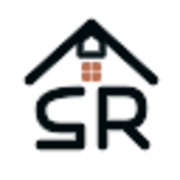
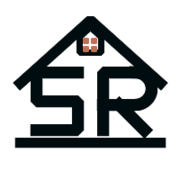
feat(brand): пересобрать логотип ближе к референсу — массивные SR в крыше + sienna-окошко
Геометрия повторяет присланный логотип точнее:
  - широкая крыша-домик с маленьким мансардным окошком (квадратиком 2x2);
  - под крышей — массивные стилизованные S и R, две толстые stroke-формы
    (S-зигзаг, R с круглой петлёй и наклонной ножкой), сходящиеся вниз
    к общей горизонтальной 'полке' (нижний край дома);
  - окошко в крыше — единственное цветное пятно (sienna #bc7155).

Обновлены и app/icon.svg (favicon), и apple-icon.png (180x180, отрендерён
из обновлённого SVG). Размер apple-icon.png уменьшился с 57 KB до 20 KB.

Changed region(s): [[0.0556, 0.0833, 0.9444, 0.8611]]

diff --git a/frontend/src/components/Logo.tsx b/frontend/src/components/Logo.tsx
@@ -93,65 +93,57 @@ function LogoIcon({
   size: number;
   className?: string;
 }) {
+  // Геометрия повторяет референс: широкая крыша-домик с маленьким мансардным
+  // окошком, под ней массивные стилизованные S и R — толстые «почти fill»
+  // обводки, опирающиеся на общую горизонтальную полку (нижний край дома).
   return (
     <svg
-      viewBox="0 0 64 64"
+      viewBox="0 0 200 200"
       width={size}
       height={size}
       role="img"
       aria-label="Smart Rent"
       className={className}
     >
-      {/* Крыша-домик с маленьким окошком сверху */}
-      <path
-        d="M10 28 L32 8 L54 28"
+      <g
         fill="none"
         stroke={stroke}
-        strokeWidth="3.5"
-        strokeLinecap="round"
-        strokeLinejoin="round"
-      />
-      <path
-        d="M28 14 L32 11 L36 14 L36 19 L28 19 Z"
-        fill="none"
-        stroke={stroke}
-        strokeWidth="2.2"
-        strokeLinejoin="round"
-      />
-      {/* Окошко 2x2 в центре крыши — маленькие квадраты, акцентная заливка sienna */}
-      <g transform="translate(29 22)">
-        <rect x="0" y="0" width="2.6" height="2.6" rx="0.4" fill={accent} />
-        <rect x="3.4" y="0" width="2.6" height="2.6" rx="0.4" fill={accent} />
-        <rect x="0" y="3.4" width="2.6" height="2.6" rx="0.4" fill={accent} />
-        <rect x="3.4" y="3.4" width="2.6" height="2.6" rx="0.4" fill={accent} />
+        strokeLinecap="square"
+        strokeLinejoin="miter"
+        strokeMiterlimit="2"
+      >
+        {/* Скаты крыши с лёгким карнизом — две сходящиеся линии */}
+        <path d="M22 92 L100 22 L178 92" strokeWidth="11" />
+        {/* Мансарда — маленькая «башенка» под коньком */}
+        <path d="M88 41 L100 30 L112 41 L112 58 L88 58 Z" strokeWidth="6" />
+
+        {/* Нижняя полка дома — общая опора для букв */}
+        <path d="M22 158 L178 158" strokeWidth="11" />
+
+        {/* Литера S — толстая горизонтальная «зигзаг»-форма как в референсе */}
+        <path
+          d="M86 80
+             L40 80
+             L40 112
+             L86 112
+             L86 144
+             L40 144"
+          strokeWidth="13"
+        />
+
+        {/* Литера R — вертикаль с круглой петлёй и наклонной ножкой */}
+        <path d="M114 144 L114 80 L150 80" strokeWidth="13" />
+        <path d="M150 80 A18 18 0 0 1 150 116 L114 116" strokeWidth="13" />
+        <path d="M132 116 L160 144" strokeWidth="13" />
       </g>
 
-      {/* S — левая половина монограммы */}
-      <path
-        d="M28 32
-           Q14 32 14 38.5
-           Q14 45 21 45
-           L28 45
-           Q28 45 28 51
-           L14 51"
-        fill="none"
-        stroke={stroke}
-        strokeWidth="3.5"
-        strokeLinecap="round"
-        strokeLinejoin="round"
-      />
-      {/* R — правая половина монограммы (вертикаль + дуга + ножка) */}
-      <path
-        d="M36 51 L36 32 L44 32
-           Q50 32 50 38
-           Q50 44 44 44 L36 44
-           M44 44 L51 51"
-        fill="none"
-        stroke={stroke}
-        strokeWidth="3.5"
-        strokeLinecap="round"
-        strokeLinejoin="round"
-      />
+      {/* Окошко 2x2 в крыше — единственное цветное пятно (sienna) */}
+      <g transform="translate(92 42)" fill={accent}>
+        <rect x="0" y="0" width="6" height="6" rx="0.6" />
+        <rect x="9" y="0" width="6" height="6" rx="0.6" />
+        <rect x="0" y="9" width="6" height="6" rx="0.6" />
+        <rect x="9" y="9" width="6" height="6" rx="0.6" />
+      </g>
     </svg>
   );
 }
